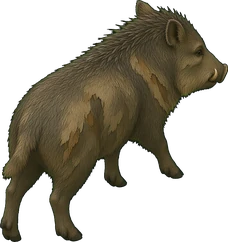
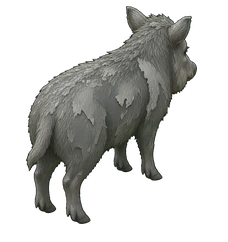
Verriers retouche v1.1 : chancho_dos / chancho_gris_dos en vraie vue de dos, escalier en descente vers le canal, blindé gris acier vitrifié, jeune chancho gris de cendre — mêmes clés, px, ancres ; MUTANTS §15.5 — Ocre

diff --git a/docs/rencontres/MUTANTS.md b/docs/rencontres/MUTANTS.md
@@ -933,11 +933,15 @@ Le bloc du §14 est déjà aligné sur ces poses (mêmes x, z, w, d, solides, mi
 { sprite: 'rc_ds_rochers_3q', x: 29, z: 27.9, w: 3, d: 1.5, solid: [{ x: 29, z: 27.9, w: 3, d: 1.5, couv: 1 }] }  // réutilisé,
 ```
 
-### 15.5 Défauts connus (v1)
+### 15.5 Défauts connus (v1, mis à jour par la retouche v1.1)
 - La porte nord de la cabane est sur une face cachée à cette caméra : elle est signalée par des planches éclatées au coin nord-est ; le dialogue passe par la fenêtre sud, visible.
-- Le blindé du repeint est plus rouillé que gris : la peinture grise brûlée ne se lit qu'à moitié.
-- Escalier : les marches se lisent mal comme une descente (IoU 0,87) ; à reprendre si Rivet trouve le passage peu lisible.
-- Le gris : l'oreille fendue ne se lit pas à la taille du jeu (visible seulement à la planche) ; le jeune chancho est plus brun que gris de cendre.
-- Les vues de dos des chanchos tiennent la pose du modèle bloc (tête au nord-est), mais les pattes avant, plus loin, montent haut à l'écran : à vérifier en jeu qu'elles ne lisent pas comme une bête qui se cabre.
+- Le gris : l'oreille fendue ne se lit pas à la taille du jeu (visible seulement à la planche).
 - Rufina : ses plaques d'avant-bras sont un peu « écailles » ; Nilo : les taches de sa chemise reprennent le motif de sa peau.
 - `g_rc_verre` : motif de dalles répétitif à 4 m sur les grandes surfaces ; semer `_b` et `_c`.
+- Escalier v1.1 : la descente se lit, mais l'emprise ne fait que 0,5 m de profondeur ; les cinq marches sont donc minces à la taille du jeu, et le liseré de sable du bas touche le bord gauche de la toile.
+
+**Corrigé en v1.1** (mêmes clés, mêmes px, mêmes ancres ; rien à recâbler) :
+- `gen_rc_chancho_dos` et `gen_rc_chancho_gris_dos` : vraies vues de dos 3/4 (croupe et queue vers la caméra, tête au nord-est presque cachée par les épaules, quatre sabots au sol), peintes sur un nouveau modèle bloc arrondi ; le centre des sabots est posé sur l'ancre v1.
+- `rc_vr_escalier_quai_3q` : géométrie refaite. Palier au niveau du quai au nord, cinq marches qui descendent vers le canal (sud), contremarches sombres, échiffres en pente, sable amassé au pied ; plus de mur en haut.
+- `rc_vr_blinde_vitrifie_3q` : tôle gris acier vitrifiée, quelques coulures de rouille seulement ; socle de verre intact. Le calque `_texte` n'a pas changé et reste aligné (même toile, même ancre).
+- `gen_rc_chancho` (le jeune) : cuir gris de cendre ; les défenses et le groin n'ont pas changé.
